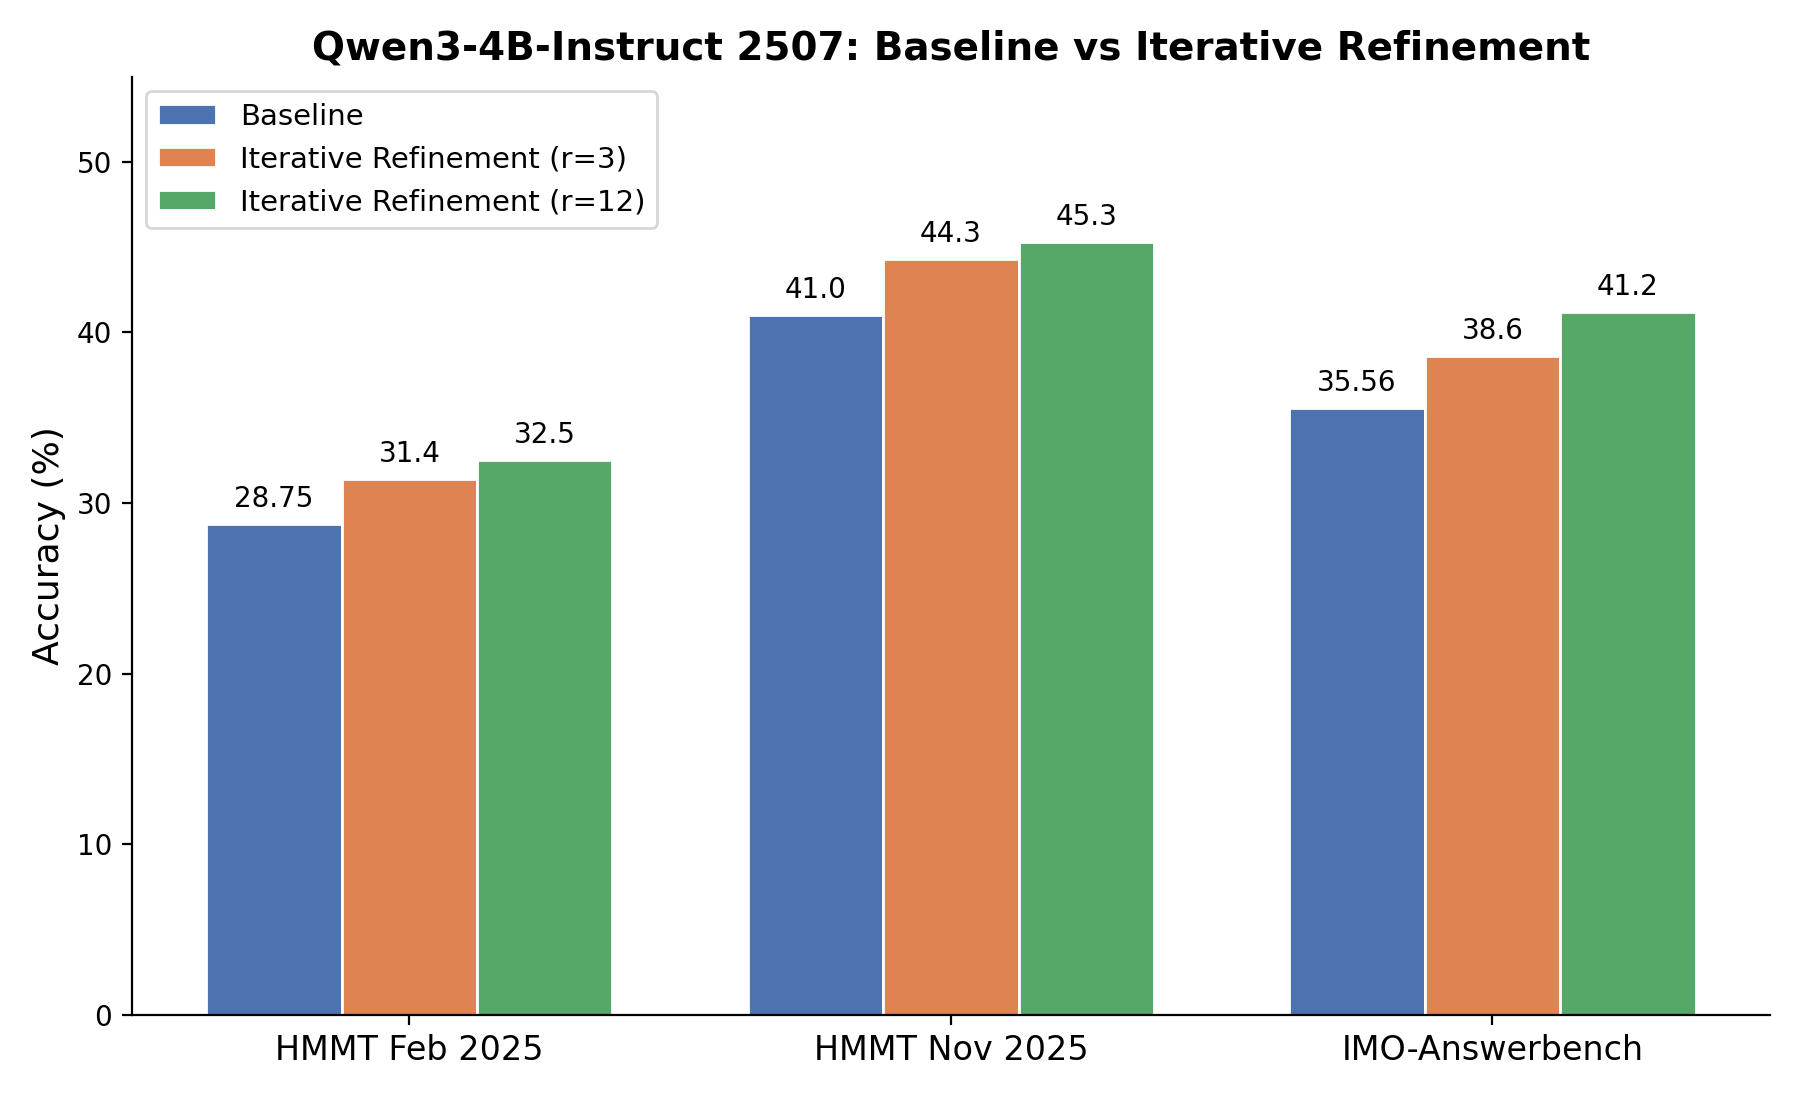
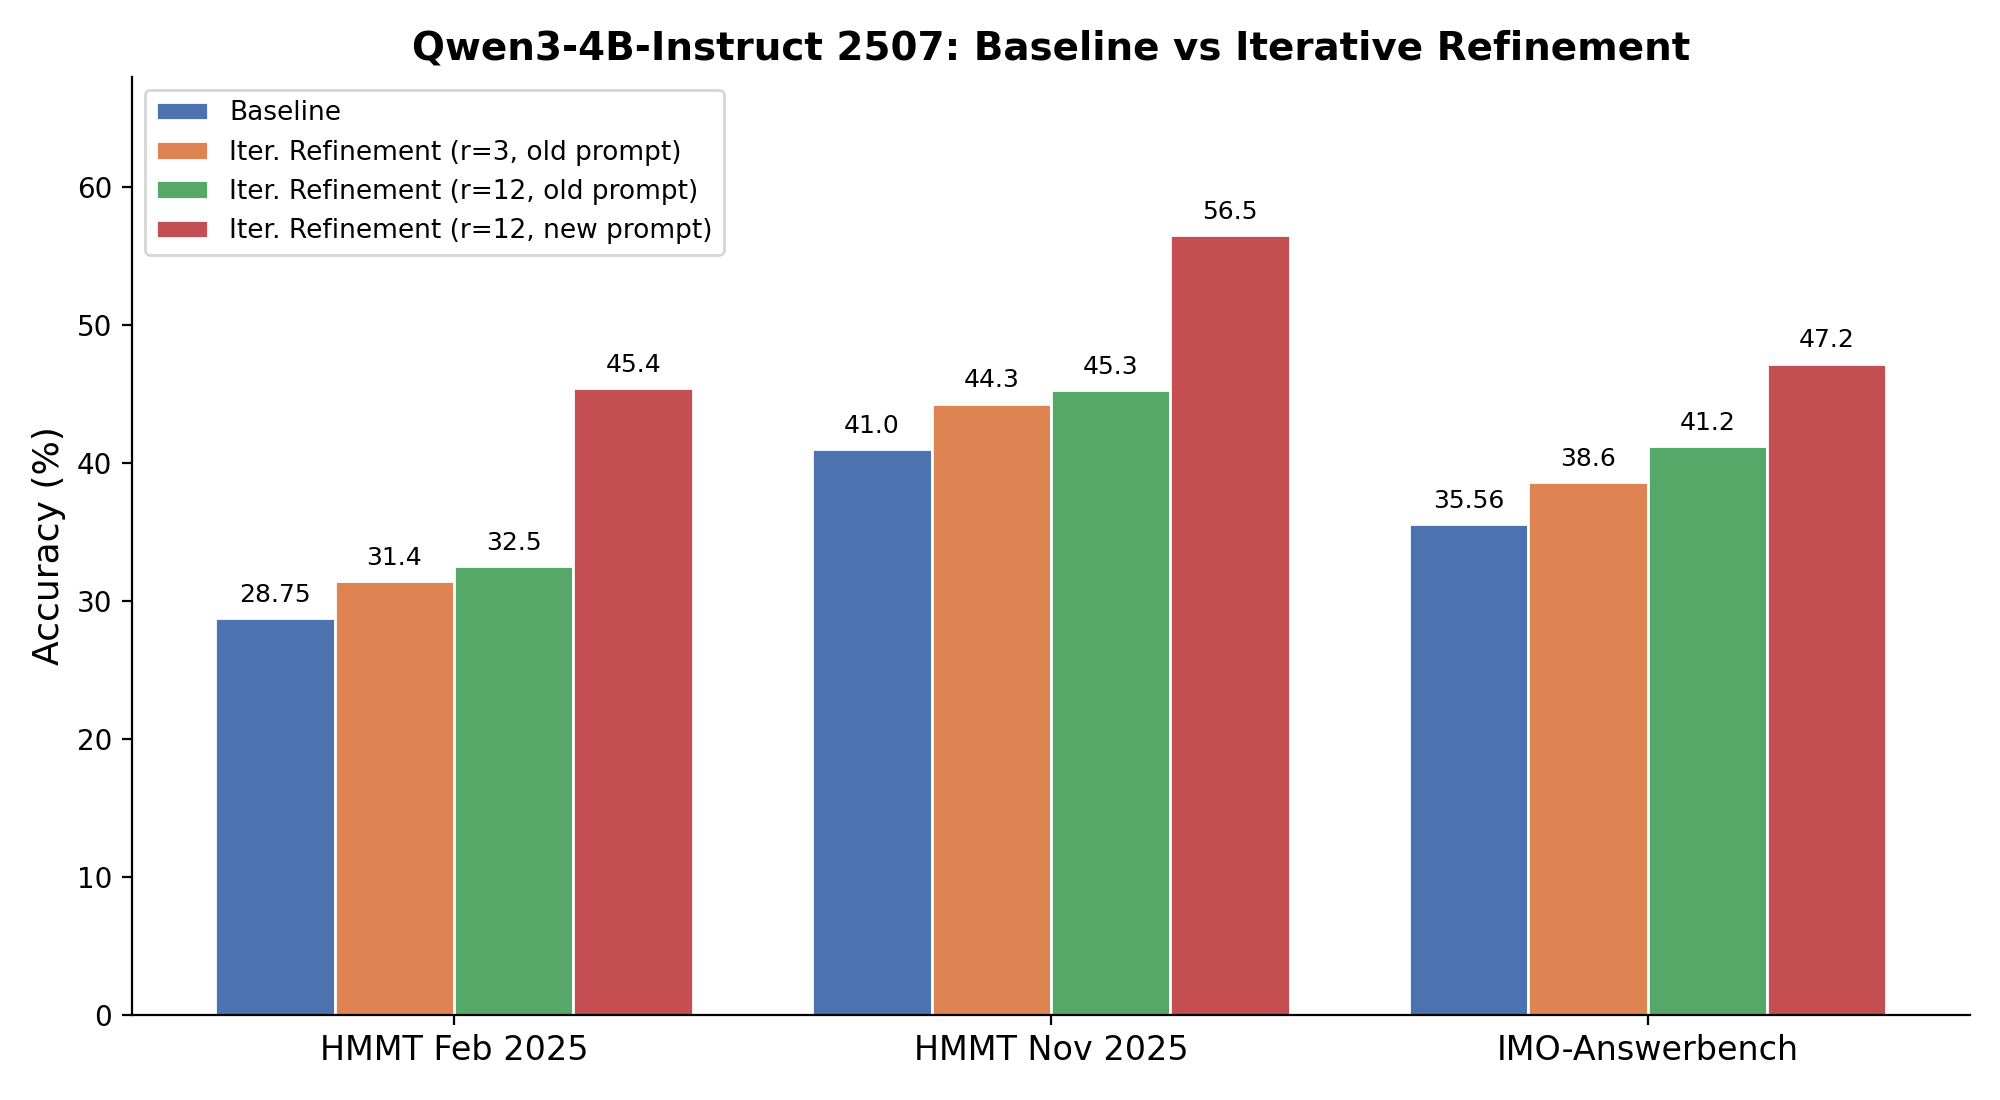
Add r=12 new prompt results to refinement comparison plot

diff --git a/analysis/plot_qwen3_4b_refinement.py b/analysis/plot_qwen3_4b_refinement.py
@@ -4,30 +4,32 @@ import numpy as np
 benchmarks = ["HMMT Feb 2025", "HMMT Nov 2025", "IMO-Answerbench"]
 baseline = [28.75, 41, 35.56]
 refine_r3 = [31.4, 44.3, 38.6]
-refine_r12 = [32.5, 45.3, 41.2]
+refine_r12_old = [32.5, 45.3, 41.2]
+refine_r12_new = [45.4, 56.5, 47.2]
 
 x = np.arange(len(benchmarks))
-width = 0.25
+width = 0.2
 
-fig, ax = plt.subplots(figsize=(9, 5.5))
+fig, ax = plt.subplots(figsize=(10, 5.5))
 
-bars1 = ax.bar(x - width, baseline, width, label="Baseline", color="#4C72B0", edgecolor="white")
-bars2 = ax.bar(x, refine_r3, width, label="Iterative Refinement (r=3)", color="#DD8452", edgecolor="white")
-bars3 = ax.bar(x + width, refine_r12, width, label="Iterative Refinement (r=12)", color="#55A868", edgecolor="white")
+bars1 = ax.bar(x - 1.5*width, baseline, width, label="Baseline", color="#4C72B0", edgecolor="white")
+bars2 = ax.bar(x - 0.5*width, refine_r3, width, label="Iter. Refinement (r=3, old prompt)", color="#DD8452", edgecolor="white")
+bars3 = ax.bar(x + 0.5*width, refine_r12_old, width, label="Iter. Refinement (r=12, old prompt)", color="#55A868", edgecolor="white")
+bars4 = ax.bar(x + 1.5*width, refine_r12_new, width, label="Iter. Refinement (r=12, new prompt)", color="#C44E52", edgecolor="white")
 
 ax.set_ylabel("Accuracy (%)", fontsize=13)
 ax.set_title("Qwen3-4B-Instruct 2507: Baseline vs Iterative Refinement", fontsize=14, fontweight="bold")
 ax.set_xticks(x)
 ax.set_xticklabels(benchmarks, fontsize=12)
-ax.legend(fontsize=10.5, loc="upper left")
-ax.set_ylim(0, 55)
+ax.legend(fontsize=9.5, loc="upper left")
+ax.set_ylim(0, 68)
 
-for bars in [bars1, bars2, bars3]:
+for bars in [bars1, bars2, bars3, bars4]:
     for bar in bars:
         h = bar.get_height()
         ax.annotate(f"{h}", xy=(bar.get_x() + bar.get_width() / 2, h),
                     xytext=(0, 4), textcoords="offset points",
-                    ha="center", va="bottom", fontsize=10)
+                    ha="center", va="bottom", fontsize=9)
 
 ax.spines["top"].set_visible(False)
 ax.spines["right"].set_visible(False)
